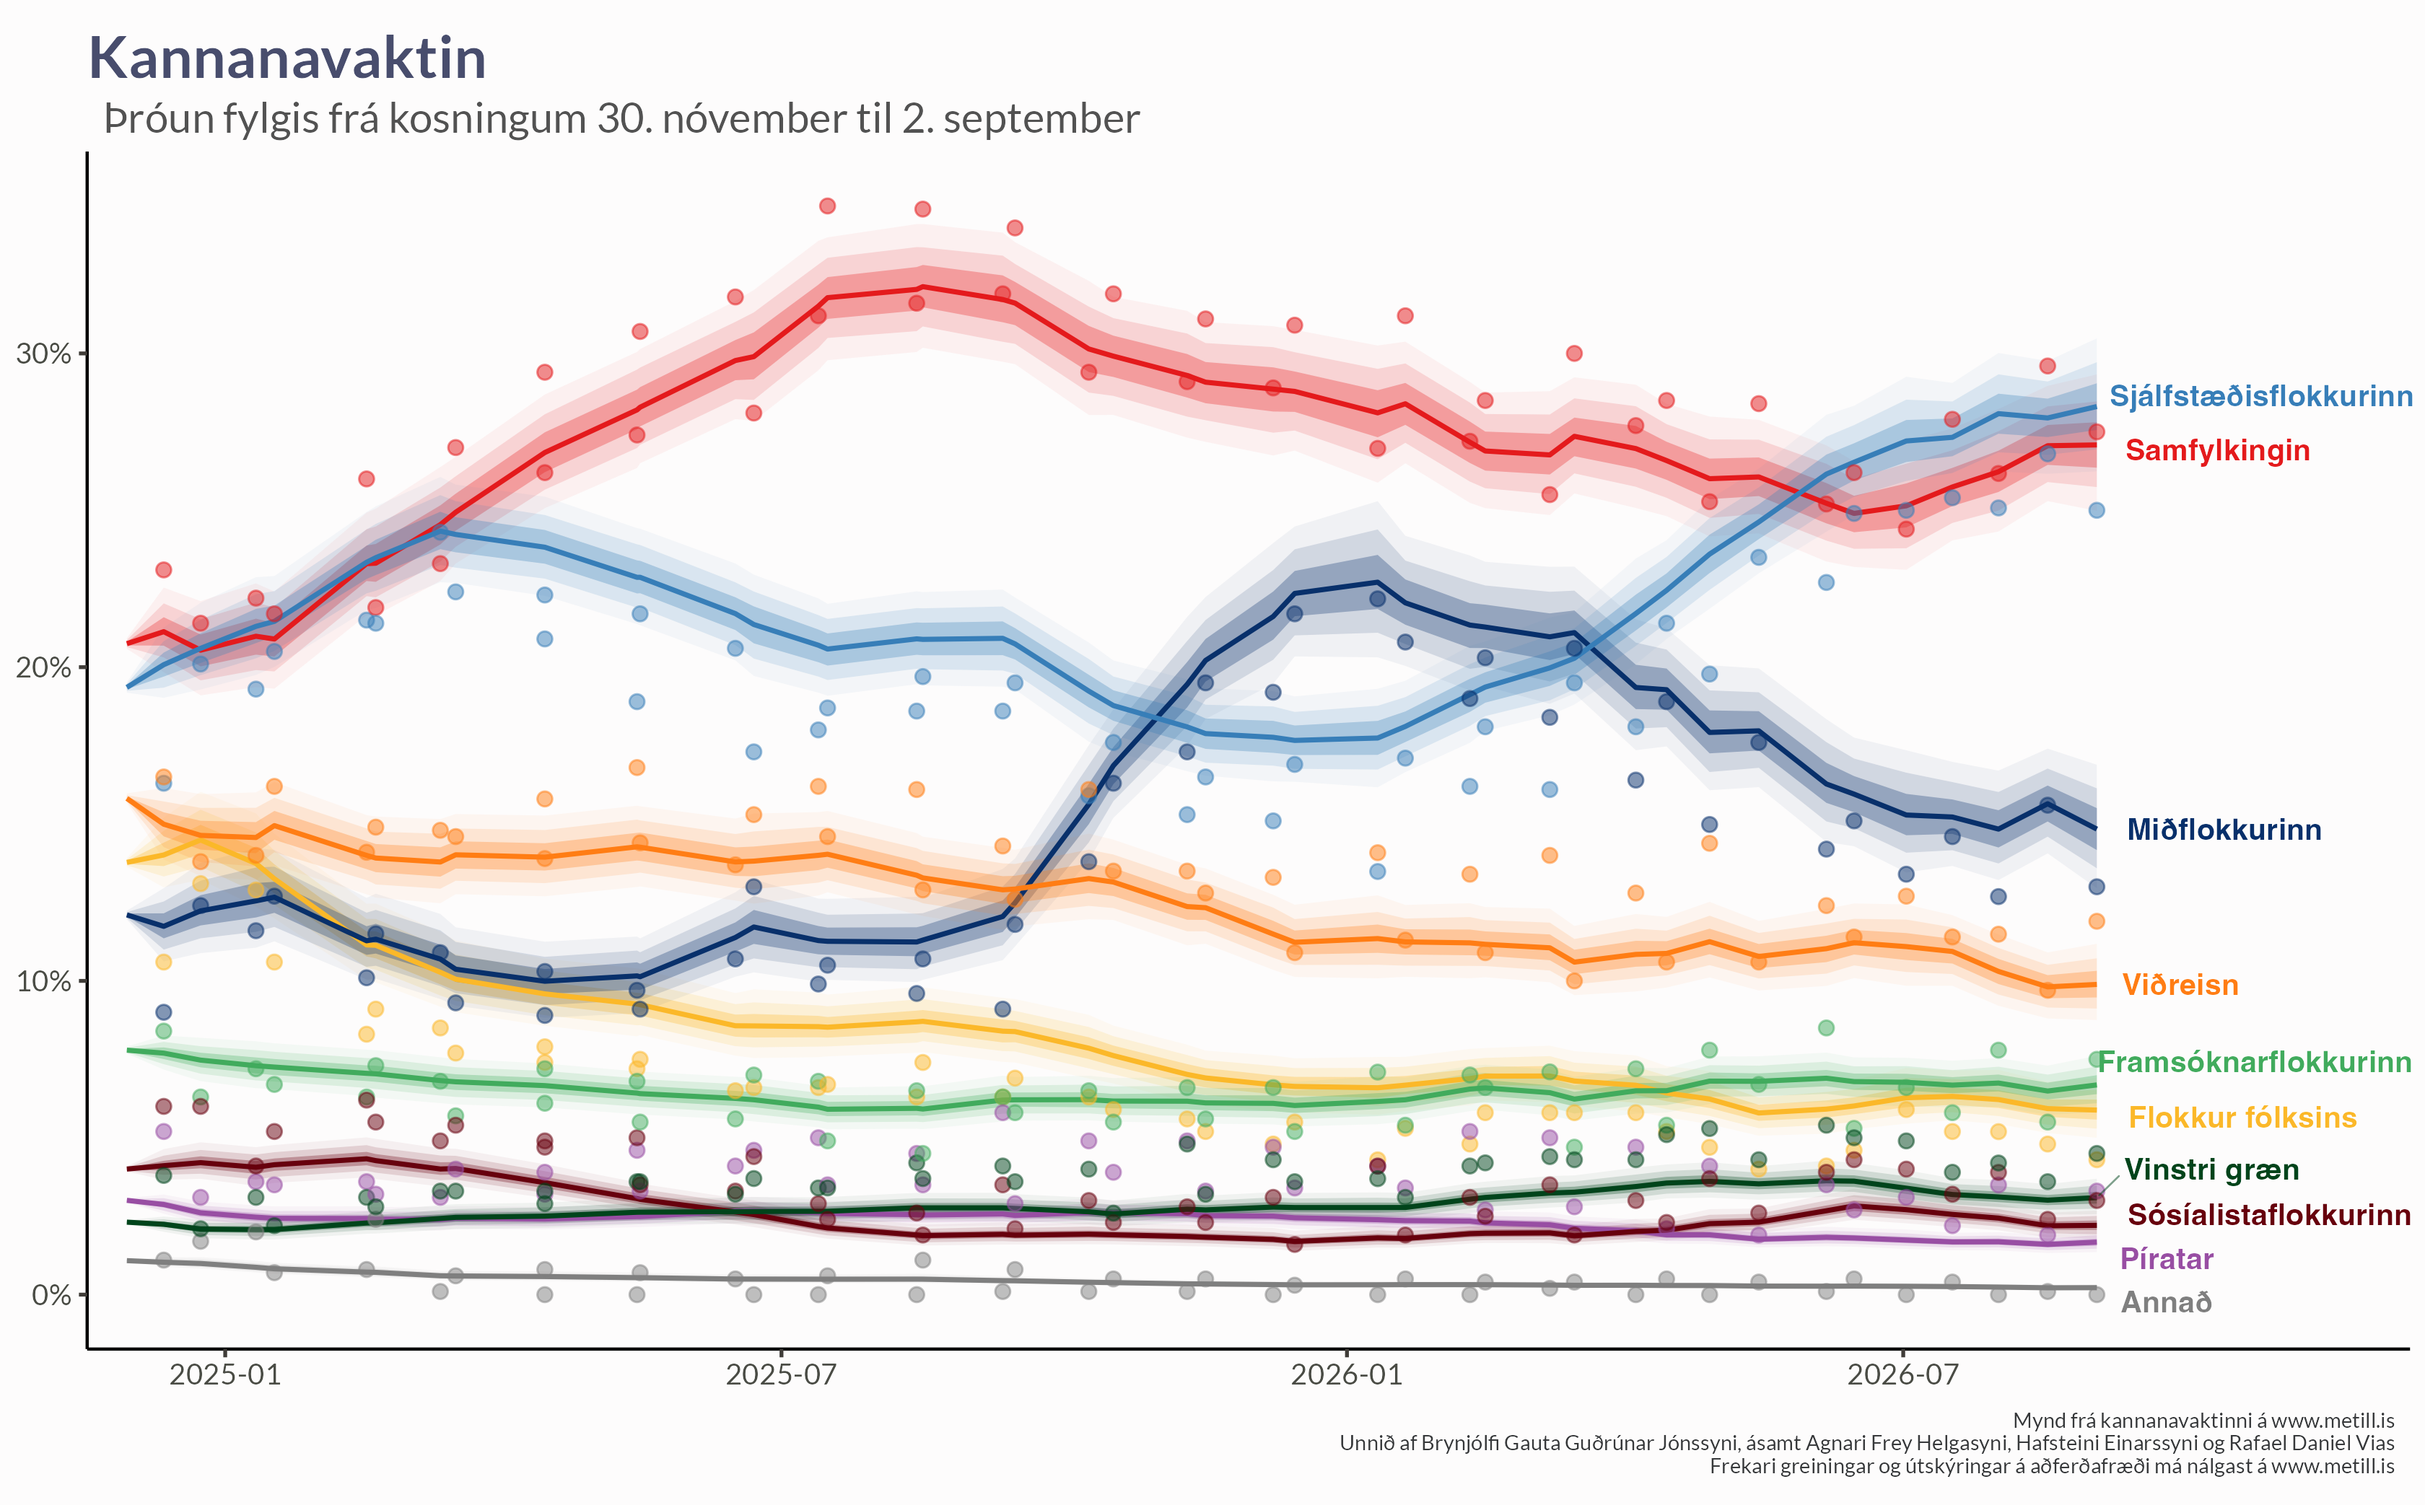
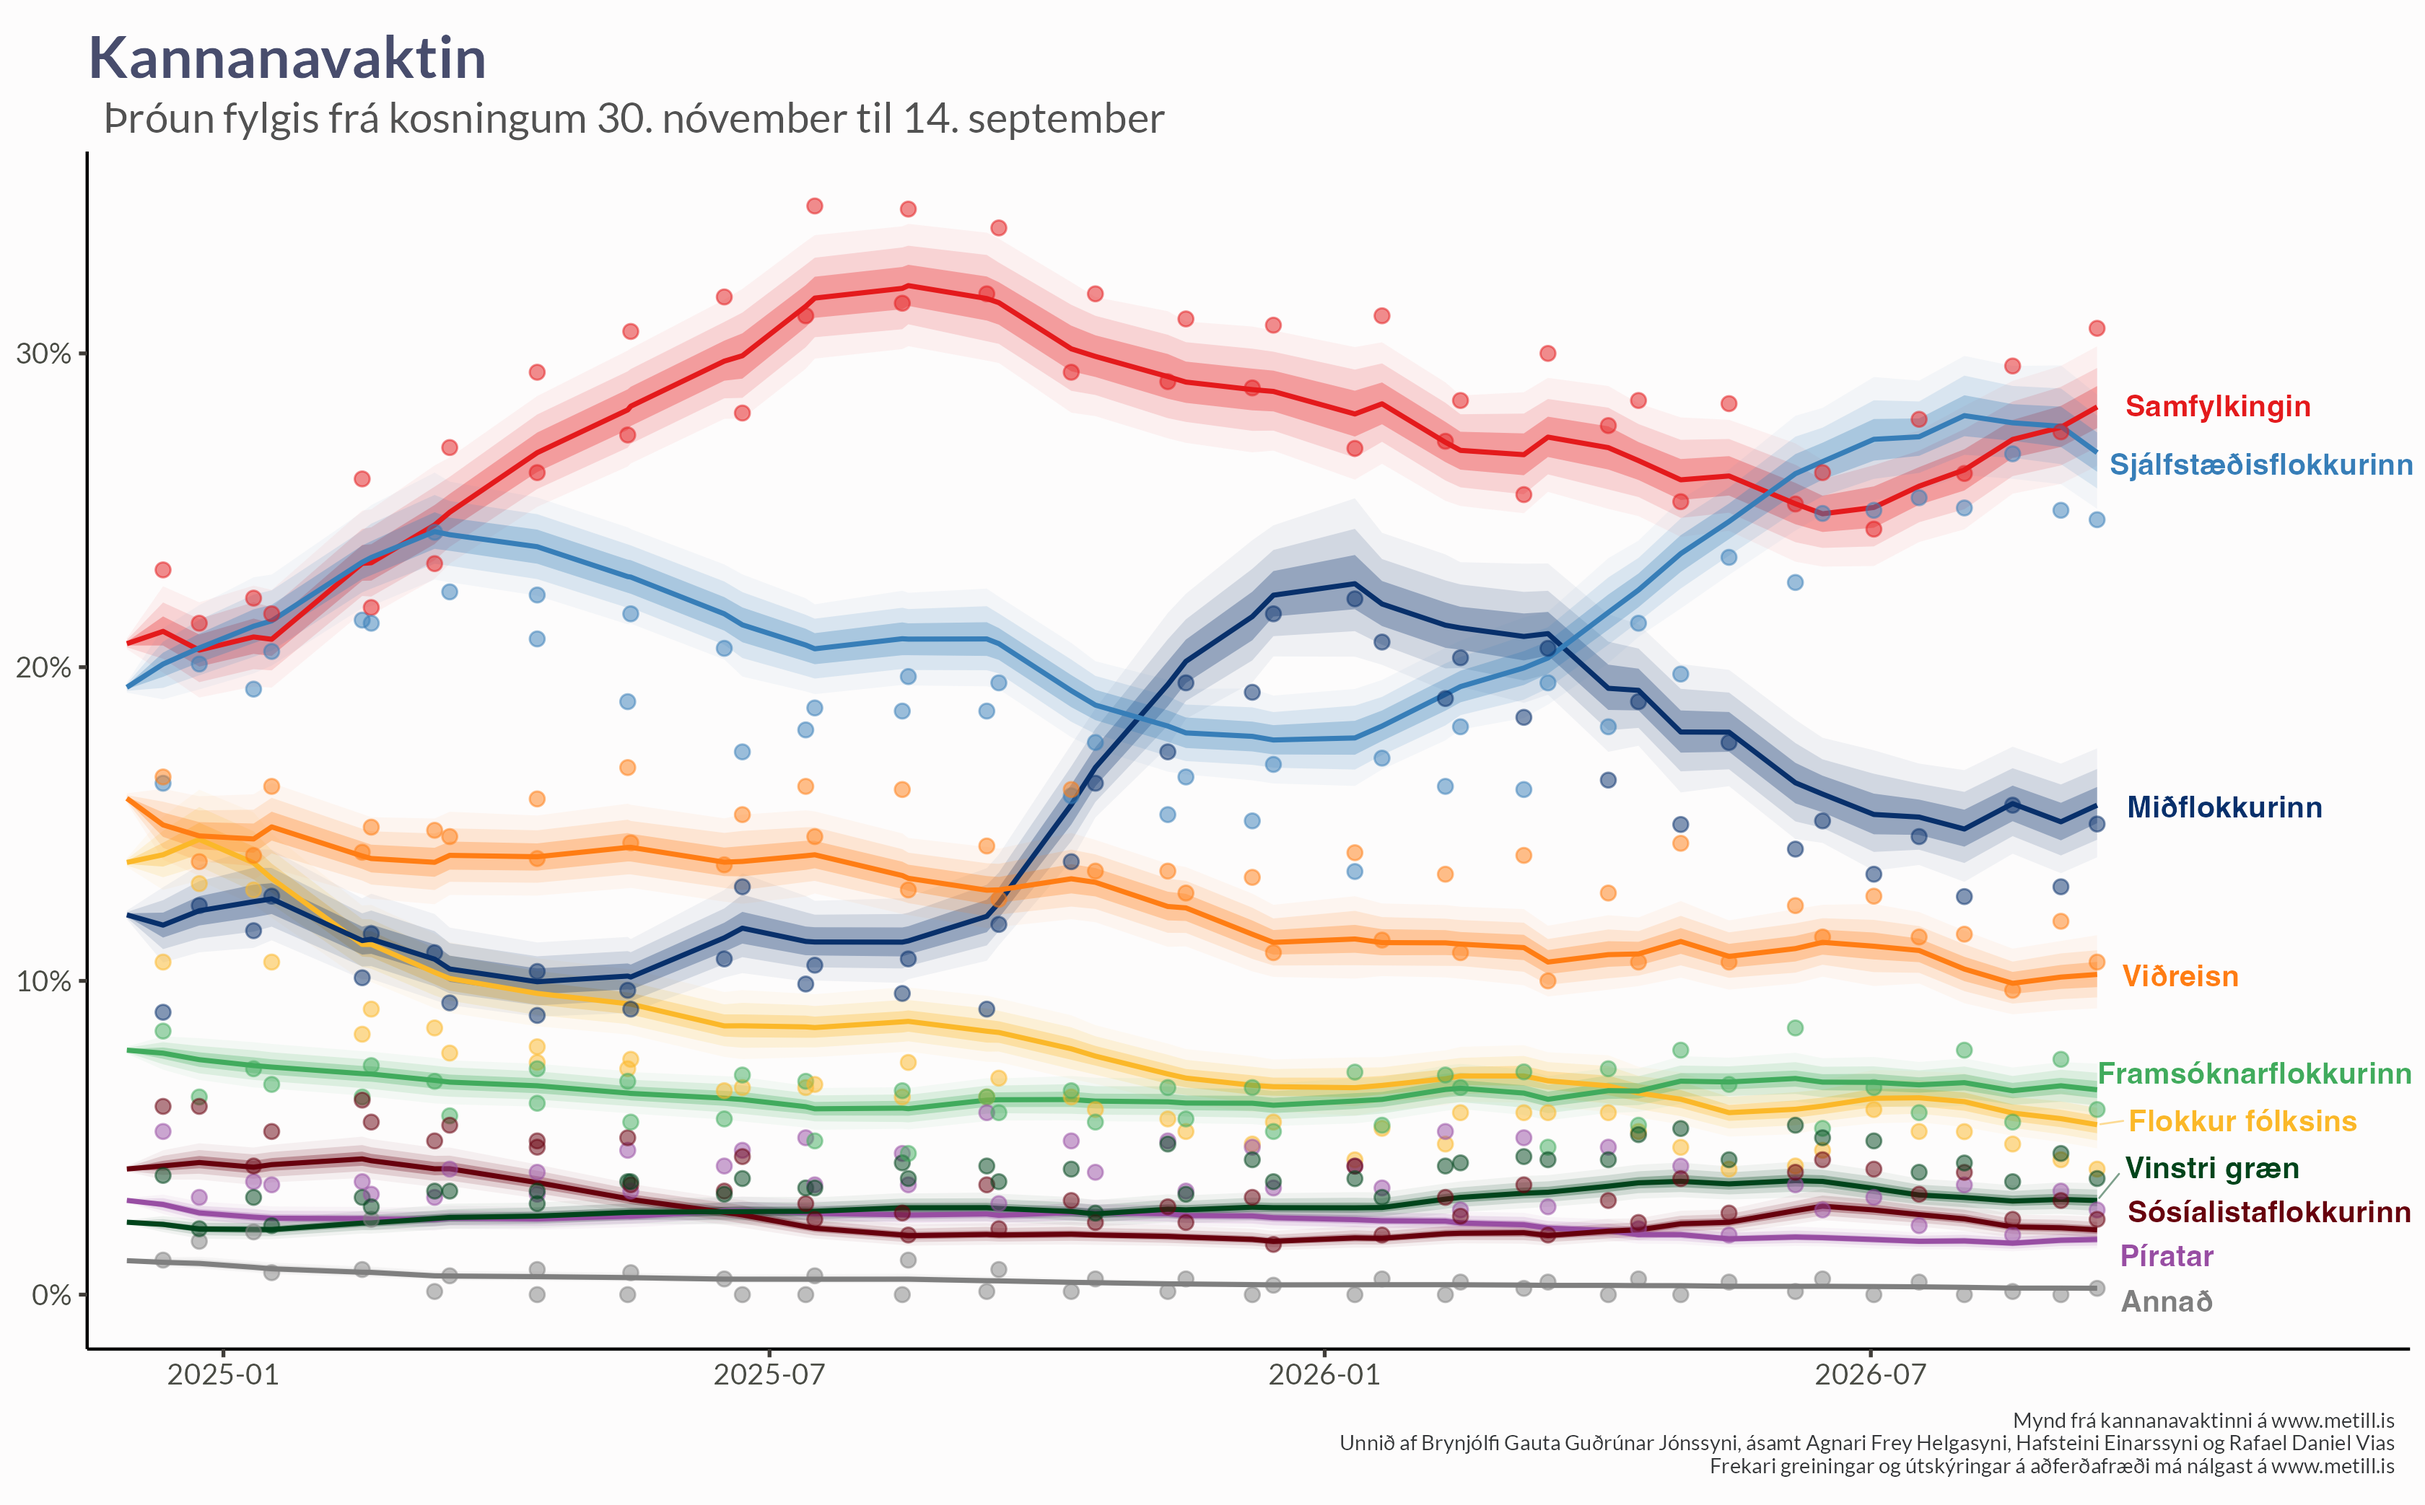
Add Gallup Þjóðarpúls september 2026 and refit fylgisvakt
Gallup's September reading (fielded 1.–28. september, úrtak 10.485,
svh 38,6%) enters the tribble as 2026-09-14. RÚV published it ahead
of gallup.is, so values and methodology come from the RÚV article's
Highcharts data; data_sources.md flags the row for reconciliation
against the Gallup PDF and Looker series once they appear.

Figures regenerated from the 2026-09-29 polling-watch fit, which was
published to metill.is in metill-platform 3349424e.

diff --git a/data_sources.md b/data_sources.md
@@ -73,6 +73,7 @@ values.
 | 2026-06-15 | 12,102 | [PDF](https://cdnx.gallup.is/media/documents/Puls_0726_Fylgi_flokka.pdf) ([RÚV](https://www.ruv.is/frettir/innlent/2026-07-01-bilid-minnkar-milli-samfylkingarinnar-og-sjalfstaedisflokksins-480049), [Gallup dashboard](https://www.gallup.is/data/geytenbr/sso/)) | Fielded 1.–30. júní 2026; úrtak 12.102, svh 38,5%, vikmörk 0,5–1,4 pp. Þjóðarpúls júní 2026. **Puls_0726 PDF has since appeared and is now the primary citation (re-cited 2026-08-19); its "Júní 2026" row confirms S 26,2 / D 24,9 / M 15,1 / C 11,4 / B 5,3 / V 5,0 / F 4,6 / J 4,3 exactly.** 8 parties + methodology from the RÚV article's embedded Highcharts `pollData` (S 26,2 / D 24,9 / M 15,1 / C 11,4 / B 5,3 / V 5,0 / F 4,6 / J 4,3). **Píratar omitted from the RÚV article/chart** (first Gallup reading where RÚV drops P) but present in Gallup's own Looker dashboard at **P 2,7%** — that value used, giving Annað 0,5% (in line with the 0,4–0,6% recent norm). |
 | 2026-07-17 | 13,167 | [PDF](https://cdnx.gallup.is/media/documents/Puls_0826_Fylgi_flokka.pdf) ([Gallup article](https://www.gallup.is/frettir/litlar-breytingar--a-fylgi/), [Vísir](https://www.visir.is/g/20262917133d/mark-taekur-munur-a-fylgi-sam-fylkingar-og-sjalf-staedis-flokks)) | Fielded 1. júlí – 3. ágúst 2026; úrtak 13.167, svh 37,2%, vikmörk 0,5–1,4 pp. Þjóðarpúls júlí 2026 (published 5 Aug as `Puls_0826`). 8 parties from the PDF's "Júlí 2026" row (S 27,9 / D 25,4 / M 14,6 / C 11,4 / B 5,8 / F 5,2 / V 3,9 / J 3,2). **Píratar omitted from the PDF table** — prose says only "rúmlega 2% Pírata"; exact **P 2,2%** taken from Vísir ("Sósíalistar njóta nú stuðnings 3,2 prósenta kjósenda miðað við könnunina og Píratar 2,2 prósenta"), giving Annað 0,4% (in the 0,4–0,6% recent norm). Date is the linear midpoint of the 1 Jul – 3 Aug span (17,5 → floored to the 17th, per the dominant tribble convention) |
 | 2026-08-17 | 13,836 | [PDF](https://cdnx.gallup.is/media/documents/Puls_0926_Fylgi_flokka.pdf) ([Gallup dashboard](https://www.gallup.is/nidurstodur/thjodarpuls/fylgi-flokka-til-althingis/), [RÚV](https://www.ruv.is/frettir/innlent/2026-09-01-samfylkingin-staekkar-en-vidreisn-minnkar-485813), [Vísir](https://www.visir.is/g/20262929192d/vid-reisn-tapar-fylgi)) | Fielded 4.–31. ágúst 2026; úrtak 13.836, svh 40,2%, vikmörk 0,4–1,3 pp. Þjóðarpúls ágúst 2026 (published as `Puls_0926` ~1 Sept; net- og símakönnun). 8 parties from the PDF's "Ágúst 2026" row (S 29,6 / D 26,8 / M 15,6 / C 9,7 / B 5,5 / F 4,8 / V 3,6 / J 2,4), confirmed verbatim by the RÚV article's embedded Highcharts `pollData`. **Píratar omitted from the PDF table, the RÚV chart and *all* press coverage** (0 hits for "Pírat" across RÚV/Vísir/Viðskiptablaðið/Heimildin); PDF prose says only "um 2% Pírata". Exact **P 1,93% → 1,9** recovered from Gallup's own Looker series (`gallup_dw::fylgi_til_althingis`, view `gallup_althingisfylgi`, row `response_date = 2026-08-31`), which also reproduces all eight tabulated parties to 2 dp (29,56 / 26,75 / 15,57 / 9,66 / 5,52 / 4,75 / 3,59 / 2,42). Annað 0,1% — **below the 0,4–0,6% recent norm**, because the series shows Lýðræðisflokkurinn and Ábyrg framtíð both null this month. Date is the linear midpoint of the 4–31 Aug span (exactly 17, no rounding needed) |
+| 2026-09-14 | 10,485 | [RÚV](https://www.ruv.is/frettir/innlent/2026-09-29-forskot-samfylkingarinnar-a-sjalfstaedisflokkinn-eykst-488371) | Fielded 1.–28. september 2026; úrtak 10.485, svh 38,6%, vikmörk 0,5–1,6 pp. Þjóðarpúls september 2026; sample drawn from Viðhorfahópur Gallup (RÚV's methodology line mentions no phone arm, unlike August). **Gallup PDF not yet published at ingest (29 Sept 2026) — RÚV published ahead of gallup.is: `Puls_0926_Fylgi_flokka.pdf` still holds the August reading (last-modified 2 Sept), `Puls_1026` 404s, and the Looker series ends at `response_date = 2026-08-31`.** All 9 parties from the RÚV article's embedded Highcharts data (S 30,8 / D 24,7 / M 15,0 / C 10,6 / B 5,9 / F 4,0 / V 3,7 / P 2,7 / J 2,4), matching the article prose; Píratar included this month, so no Looker recovery needed. Annað 0,2%. Date is the 1–28 Sept midpoint (14,5 → floored to the 14th). **To reconcile:** re-cite the Gallup PDF and check the Looker `2026-09-30` row once published |
 
 ### Maskína (national)
 
